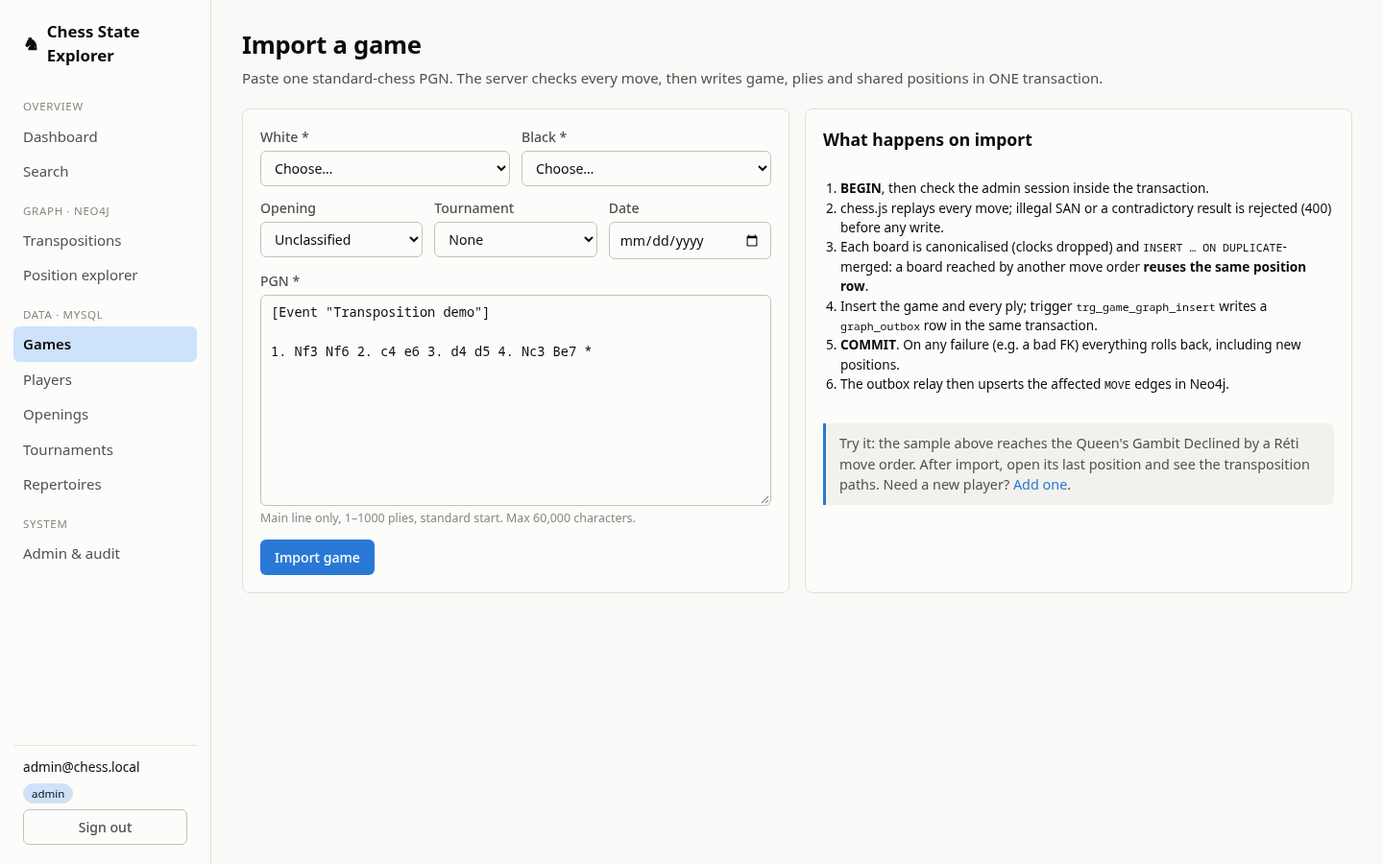
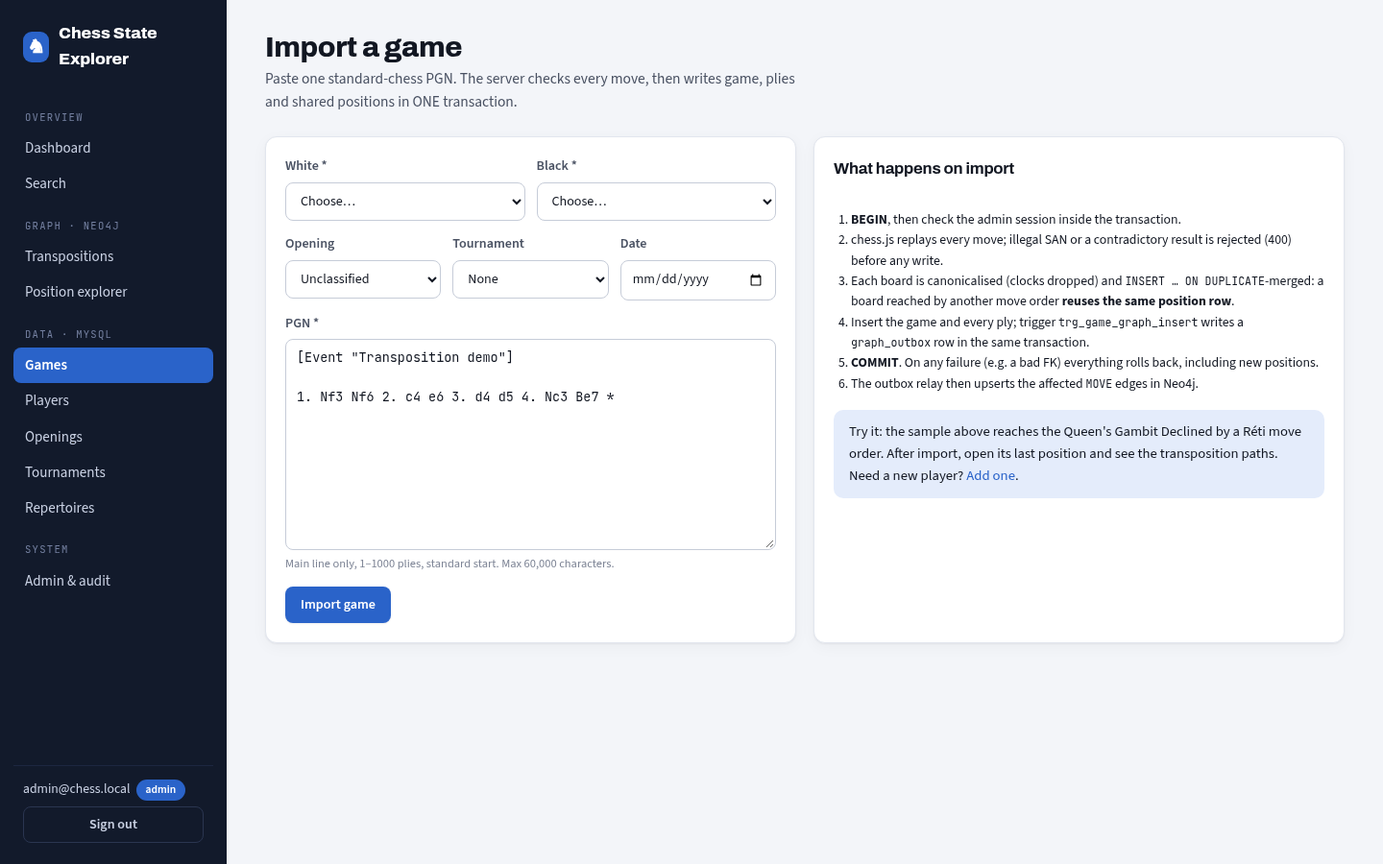
style(ui): redesign with dark sidebar, display fonts and database-coloured tags

diff --git a/src/app/globals.css b/src/app/globals.css
@@ -1,21 +1,32 @@
-/* Chess State Explorer — single stylesheet. Tokens first; dark mode is its own selected set. */
+/* Chess State Explorer — one stylesheet. Tokens first; dark mode is its own selected set.
+   Layout: dark navy sidebar rail, airy paper canvas, white layered cards. */
 :root {
   color-scheme: light;
-  --page: #f9f9f7;
-  --surface: #fcfcfb;
-  --surface-2: #f2f1ed;
-  --ink: #0b0b0b;
-  --ink-2: #52514e;
-  --muted: #898781;
-  --line: #e1e0d9;
-  --axis: #c3c2b7;
-  --ring: rgba(11, 11, 11, 0.10);
-  --accent: #2a78d6;
+  --page: #f3f5f9;
+  --surface: #ffffff;
+  --surface-2: #f1f3f7;
+  --ink: #121722;
+  --ink-2: #4a5263;
+  --muted: #7d8495;
+  --line: #e2e6ee;
+  --axis: #c6ccd8;
+  --ring: rgba(18, 23, 34, 0.08);
+  --shadow: 0 1px 2px rgba(18, 23, 34, 0.05), 0 4px 16px rgba(18, 23, 34, 0.04);
+  --rail: #121a2b;
+  --rail-ink: #c9d1e3;
+  --rail-muted: #7480a0;
+  --rail-hover: #1d2740;
+  --accent: #2a63c9;
   --accent-ink: #ffffff;
-  --accent-soft: #cde2fb;
-  --ok: #006300;
+  --accent-soft: #e4ecfb;
+  --sql: #b5560f;
+  --sql-soft: #fcebdd;
+  --graph: #137a54;
+  --graph-soft: #ddf3e8;
+  --ok: #0b6b2c;
   --critical: #d03b3b;
   --warning: #fab219;
+  --warning-soft: #fff3d6;
   /* categorical slots 1–3 (validated): white wins / draws / black wins */
   --s1: #2a78d6;
   --s2: #eb6834;
@@ -23,143 +34,168 @@
   /* diverging pair for evaluation polarity */
   --div-white: rgba(42, 120, 214, 0.22);
   --div-black: rgba(227, 73, 72, 0.20);
-  --board-light: #ebe6d8;
-  --board-dark: #8aa0b4;
-  --board-highlight: rgba(250, 178, 25, 0.45);
-  --radius: 8px;
-  font-family: system-ui, -apple-system, "Segoe UI", sans-serif;
+  --board-light: #e9e5d9;
+  --board-dark: #8ea2b6;
+  --board-highlight: rgba(250, 178, 25, 0.5);
+  --radius: 12px;
+  --f-display: var(--font-display), "Archivo", "Helvetica Neue", Arial, sans-serif;
+  --f-body: var(--font-body), "Source Sans 3", "Segoe UI", system-ui, sans-serif;
+  --f-mono: var(--font-mono), "JetBrains Mono", ui-monospace, Menlo, monospace;
 }
 @media (prefers-color-scheme: dark) {
   :root:where(:not([data-theme="light"])) {
     color-scheme: dark;
-    --page: #0d0d0d; --surface: #1a1a19; --surface-2: #232321; --ink: #f0efec; --ink-2: #c3c2b7;
-    --muted: #898781; --line: #2c2c2a; --axis: #383835; --ring: rgba(255, 255, 255, 0.10);
-    --accent: #3987e5; --accent-soft: #184f95; --ok: #0ca30c;
+    --page: #0d1016; --surface: #161a22; --surface-2: #1d222c; --ink: #e9ecf2; --ink-2: #b7becb; --muted: #8790a1;
+    --line: #272d39; --axis: #39404d; --ring: rgba(0, 0, 0, 0.4); --shadow: 0 1px 2px rgba(0, 0, 0, 0.4);
+    --rail: #0a0d13; --rail-hover: #171c27;
+    --accent: #5f93ec; --accent-soft: #1b2944; --sql: #f0a060; --sql-soft: #3a2616; --graph: #4cc996; --graph-soft: #12322a;
+    --ok: #3fcf6a; --warning-soft: #3a2e12;
     --s1: #3987e5; --s2: #d95926; --s3: #199e70;
     --div-white: rgba(57, 135, 229, 0.28); --div-black: rgba(230, 103, 103, 0.26);
-    --board-light: #b9b3a2; --board-dark: #5d7385;
+    --board-light: #b9b5a8; --board-dark: #5d7083;
   }
 }
 :root[data-theme="dark"] {
   color-scheme: dark;
-  --page: #0d0d0d; --surface: #1a1a19; --surface-2: #232321; --ink: #f0efec; --ink-2: #c3c2b7;
-  --muted: #898781; --line: #2c2c2a; --axis: #383835; --ring: rgba(255, 255, 255, 0.10);
-  --accent: #3987e5; --accent-soft: #184f95; --ok: #0ca30c;
+  --page: #0d1016; --surface: #161a22; --surface-2: #1d222c; --ink: #e9ecf2; --ink-2: #b7becb; --muted: #8790a1;
+  --line: #272d39; --axis: #39404d; --ring: rgba(0, 0, 0, 0.4); --shadow: 0 1px 2px rgba(0, 0, 0, 0.4);
+  --rail: #0a0d13; --rail-hover: #171c27;
+  --accent: #5f93ec; --accent-soft: #1b2944; --sql: #f0a060; --sql-soft: #3a2616; --graph: #4cc996; --graph-soft: #12322a;
+  --ok: #3fcf6a; --warning-soft: #3a2e12;
   --s1: #3987e5; --s2: #d95926; --s3: #199e70;
   --div-white: rgba(57, 135, 229, 0.28); --div-black: rgba(230, 103, 103, 0.26);
-  --board-light: #b9b3a2; --board-dark: #5d7385;
+  --board-light: #b9b5a8; --board-dark: #5d7083;
 }
 
 * { box-sizing: border-box; }
 html, body { margin: 0; }
-body { background: var(--page); color: var(--ink); font-size: 15px; line-height: 1.5; }
+body { background: var(--page); color: var(--ink); font-family: var(--f-body); font-size: 15.5px; line-height: 1.55; -webkit-font-smoothing: antialiased; }
 a { color: var(--accent); text-decoration: none; }
-a:hover { text-decoration: underline; }
-h1 { font-size: 1.6rem; margin: 0 0 4px; letter-spacing: -0.01em; }
-h2 { font-size: 1.1rem; margin: 0 0 12px; }
+a:hover { text-decoration: underline; text-underline-offset: 2px; }
+h1, h2, h3 { font-family: var(--f-display); letter-spacing: -0.015em; text-wrap: balance; }
+h1 { font-size: 1.85rem; font-weight: 800; margin: 0 0 4px; line-height: 1.15; }
+h2 { font-size: 1.05rem; font-weight: 700; margin: 0 0 14px; display: flex; align-items: center; gap: 6px; }
 h3 { font-size: 0.95rem; margin: 0 0 8px; }
-code, .mono { font-family: ui-monospace, "SF Mono", Menlo, monospace; font-size: 0.85em; }
+code, .mono { font-family: var(--f-mono); font-size: 0.84em; }
 .muted { color: var(--muted); }
-.small { font-size: 0.85rem; }
+.small { font-size: 0.86rem; }
 .num { font-variant-numeric: tabular-nums; text-align: right; }
 
 /* ---------- shell ---------- */
-.shell { display: grid; grid-template-columns: 220px 1fr; min-height: 100vh; background: linear-gradient(to right, var(--surface) 219px, var(--line) 219px 220px, var(--page) 220px); }
-.sidebar { background: var(--surface); border-right: 1px solid var(--line); align-self: start; padding: 20px 14px; display: flex; flex-direction: column; gap: 4px; position: sticky; top: 0; height: 100vh; }
-.brand { font-weight: 700; font-size: 1.05rem; padding: 0 10px 14px; display: flex; gap: 8px; align-items: center; color: var(--ink); }
+.shell { display: grid; grid-template-columns: 236px 1fr; min-height: 100vh; background: linear-gradient(to right, var(--rail) 236px, var(--page) 236px); }
+.sidebar { background: var(--rail); color: var(--rail-ink); padding: 22px 14px; display: flex; flex-direction: column; gap: 4px; position: sticky; top: 0; height: 100vh; overflow-y: auto; align-self: start; }
+.brand { font-family: var(--f-display); font-weight: 800; font-size: 1.08rem; padding: 0 10px 18px; display: flex; gap: 10px; align-items: center; color: #fff; letter-spacing: -0.01em; }
+.brand > span:first-child { display: grid; place-items: center; width: 32px; height: 32px; border-radius: 9px; background: var(--accent); color: #fff; font-size: 1.15rem; }
 .brand:hover { text-decoration: none; }
-.nav a { display: block; padding: 7px 10px; border-radius: 6px; color: var(--ink-2); }
-.nav a:hover { background: var(--surface-2); text-decoration: none; color: var(--ink); }
-.nav a[aria-current="page"] { background: var(--accent-soft); color: var(--ink); font-weight: 600; }
-.nav-group { font-size: 0.72rem; text-transform: uppercase; letter-spacing: 0.06em; color: var(--muted); padding: 14px 10px 4px; }
-.sidebar-foot { margin-top: auto; padding: 12px 10px 0; border-top: 1px solid var(--line); font-size: 0.85rem; }
-.main { padding: 28px 32px 60px; max-width: 1240px; width: 100%; }
-.page-head { display: flex; justify-content: space-between; align-items: flex-end; gap: 16px; margin-bottom: 20px; flex-wrap: wrap; }
-.page-head p { margin: 0; color: var(--ink-2); }
-.searchbar { display: flex; gap: 8px; }
+.nav a { display: block; padding: 7px 12px; border-radius: 8px; color: var(--rail-ink); font-size: 0.94rem; }
+.nav a:hover { background: var(--rail-hover); text-decoration: none; color: #fff; }
+.nav a[aria-current="page"] { background: var(--accent); color: #fff; font-weight: 600; }
+.nav-group { font-family: var(--f-mono); font-size: 0.66rem; text-transform: uppercase; letter-spacing: 0.12em; color: var(--rail-muted); padding: 16px 12px 6px; }
+.sidebar-foot { margin-top: auto; padding: 14px 10px 0; border-top: 1px solid var(--rail-hover); font-size: 0.85rem; color: var(--rail-ink); }
+.sidebar-foot .btn-ghost { background: transparent; color: var(--rail-ink); border-color: #2a3550; justify-content: center; }
+.sidebar-foot .btn-ghost:hover { background: var(--rail-hover); color: #fff; }
+.sidebar-foot .badge { background: var(--rail-hover); color: var(--rail-ink); border-color: transparent; }
+.sidebar-foot .badge-admin { background: var(--accent); color: #fff; }
+.main { padding: 32px 40px 72px; max-width: 1280px; width: 100%; }
+.page-head { display: flex; justify-content: space-between; align-items: flex-end; gap: 16px; margin-bottom: 24px; flex-wrap: wrap; }
+.page-head p { margin: 0; color: var(--ink-2); max-width: 75ch; }
+.searchbar { display: flex; gap: 8px; align-items: center; }
 
 /* ---------- surfaces ---------- */
-.card { background: var(--surface); border: 1px solid var(--line); border-radius: var(--radius); padding: 18px; }
-.grid { display: grid; gap: 16px; }
+.card { background: var(--surface); border: 1px solid var(--line); border-radius: var(--radius); padding: 20px; box-shadow: var(--shadow); min-width: 0; }
+.grid { display: grid; gap: 18px; }
 .grid-2 { grid-template-columns: repeat(2, minmax(0, 1fr)); }
 .grid-3 { grid-template-columns: repeat(3, minmax(0, 1fr)); }
 .stack { display: flex; flex-direction: column; gap: 16px; }
 .row { display: flex; gap: 10px; align-items: center; flex-wrap: wrap; }
-.stats { display: grid; grid-template-columns: repeat(auto-fit, minmax(150px, 1fr)); gap: 12px; margin-bottom: 16px; }
-.stat { background: var(--surface); border: 1px solid var(--line); border-radius: var(--radius); padding: 14px 16px; }
-.stat-label { color: var(--ink-2); font-size: 0.82rem; }
-.stat-value { font-size: 1.7rem; font-weight: 650; line-height: 1.2; }
-.stat-note { color: var(--muted); font-size: 0.78rem; }
-.badge { display: inline-block; font-size: 0.72rem; padding: 1px 8px; border-radius: 999px; background: var(--surface-2); color: var(--ink-2); border: 1px solid var(--line); }
-.badge-admin { background: var(--accent-soft); color: var(--ink); }
-.db-tag { font-size: 0.68rem; font-weight: 600; padding: 1px 6px; border-radius: 4px; border: 1px solid var(--line); color: var(--ink-2); margin-left: 6px; vertical-align: middle; }
-.callout { border-left: 3px solid var(--accent); background: var(--surface-2); padding: 10px 14px; border-radius: 0 6px 6px 0; color: var(--ink-2); font-size: 0.9rem; }
-.callout-warn { border-left-color: var(--warning); }
+.stats { display: grid; grid-template-columns: repeat(auto-fit, minmax(170px, 1fr)); gap: 14px; margin-bottom: 18px; }
+.stat { background: var(--surface); border: 1px solid var(--line); border-radius: var(--radius); padding: 16px 18px; box-shadow: var(--shadow); display: flex; flex-direction: column; gap: 2px; }
+.stat-label { min-height: 2.3em; color: var(--muted); font-family: var(--f-mono); font-size: 0.68rem; text-transform: uppercase; letter-spacing: 0.1em; }
+.stat-value { font-family: var(--f-display); font-size: 2rem; font-weight: 800; line-height: 1.15; letter-spacing: -0.02em; font-variant-numeric: tabular-nums; }
+.stat-note { color: var(--ink-2); font-size: 0.8rem; }
+.badge { display: inline-block; font-size: 0.72rem; font-weight: 600; padding: 1px 9px; border-radius: 999px; background: var(--surface-2); color: var(--ink-2); border: 1px solid var(--line); }
+.badge-admin { background: var(--accent-soft); color: var(--accent); border-color: transparent; }
+.db-tag { font-family: var(--f-mono); font-size: 0.64rem; font-weight: 600; padding: 2px 7px; border-radius: 5px; letter-spacing: 0.03em; background: var(--surface-2); color: var(--ink-2); }
+.db-mysql { background: var(--sql-soft); color: var(--sql); }
+.db-neo4j { background: var(--graph-soft); color: var(--graph); }
+.callout { background: var(--accent-soft); padding: 12px 16px; border-radius: 10px; color: var(--ink); font-size: 0.92rem; margin: 0 0 16px; }
+.callout-warn { background: var(--warning-soft); }
 
 /* ---------- tables ---------- */
-.table-wrap { overflow-x: auto; }
-table.data { width: 100%; border-collapse: collapse; font-size: 0.9rem; }
-table.data th { text-align: left; font-weight: 600; color: var(--ink-2); font-size: 0.78rem; text-transform: uppercase; letter-spacing: 0.04em; padding: 8px 10px; border-bottom: 1px solid var(--axis); white-space: nowrap; }
-table.data td { padding: 8px 10px; border-bottom: 1px solid var(--line); vertical-align: top; }
-table.data tr:hover td { background: var(--surface-2); }
-.empty { color: var(--muted); padding: 24px; text-align: center; }
-.pager { display: flex; gap: 8px; align-items: center; justify-content: flex-end; margin-top: 12px; }
+.table-wrap { overflow-x: auto; margin: 0 -4px; }
+table.data { width: 100%; border-collapse: collapse; font-size: 0.92rem; }
+table.data th { text-align: left; font-family: var(--f-mono); font-weight: 600; color: var(--muted); font-size: 0.66rem; text-transform: uppercase; letter-spacing: 0.1em; padding: 8px 10px; border-bottom: 1px solid var(--line); white-space: nowrap; }
+table.data td { padding: 9px 10px; border-bottom: 1px solid var(--line); vertical-align: middle; }
+table.data tr:last-child td { border-bottom: 0; }
+table.data tbody tr:hover td { background: var(--surface-2); }
+.empty { color: var(--muted); padding: 28px; text-align: center; border: 1px dashed var(--line); border-radius: 10px; }
+.pager { display: flex; gap: 8px; align-items: center; justify-content: flex-end; margin-top: 14px; }
 
 /* ---------- forms ---------- */
-.form { display: flex; flex-direction: column; gap: 12px; }
+.form { display: flex; flex-direction: column; gap: 14px; }
 .form-inline { display: inline-flex; gap: 8px; align-items: center; }
-.form-row { display: grid; grid-template-columns: repeat(auto-fit, minmax(140px, 1fr)); gap: 12px; }
-.field { display: flex; flex-direction: column; gap: 4px; font-size: 0.88rem; }
-.field-label { color: var(--ink-2); font-weight: 500; }
+.form-row { display: grid; grid-template-columns: repeat(auto-fit, minmax(150px, 1fr)); gap: 12px; }
+.field { display: flex; flex-direction: column; gap: 5px; font-size: 0.88rem; }
+.field-label { color: var(--ink-2); font-weight: 600; }
 .field-hint { color: var(--muted); font-size: 0.78rem; }
-input, select, textarea { font: inherit; color: var(--ink); background: var(--surface); border: 1px solid var(--axis); border-radius: 6px; padding: 7px 10px; min-width: 0; }
-textarea { font-family: ui-monospace, Menlo, monospace; font-size: 0.85rem; }
-input:focus, select:focus, textarea:focus, button:focus-visible { outline: 2px solid var(--accent); outline-offset: 1px; }
+input, select, textarea { font: inherit; color: var(--ink); background: var(--surface); border: 1px solid var(--axis); border-radius: 8px; padding: 8px 11px; min-width: 0; transition: border-color .15s, box-shadow .15s; }
+input:hover, select:hover, textarea:hover { border-color: var(--muted); }
+input:focus, select:focus, textarea:focus { outline: none; border-color: var(--accent); box-shadow: 0 0 0 3px var(--accent-soft); }
+textarea { font-family: var(--f-mono); font-size: 0.84rem; line-height: 1.5; }
+button:focus-visible, a:focus-visible { outline: 2px solid var(--accent); outline-offset: 2px; }
 .form-actions { display: flex; gap: 12px; align-items: center; flex-wrap: wrap; }
-.btn { font: inherit; font-size: 0.88rem; font-weight: 550; border-radius: 6px; padding: 7px 14px; cursor: pointer; border: 1px solid transparent; }
+.btn { font: 600 0.88rem var(--f-body); border-radius: 8px; padding: 8px 15px; cursor: pointer; border: 1px solid transparent; display: inline-flex; align-items: center; gap: 6px; transition: background .15s, transform .05s; }
+.btn:hover { text-decoration: none; }
+.btn:active { transform: translateY(1px); }
 .btn:disabled { opacity: 0.6; cursor: progress; }
-.btn-primary { background: var(--accent); color: var(--accent-ink); }
+.btn-primary { background: var(--accent); color: var(--accent-ink); box-shadow: 0 1px 2px var(--ring); }
+.btn-primary:hover { filter: brightness(1.08); }
 .btn-danger { background: transparent; color: var(--critical); border-color: var(--critical); }
-.btn-ghost { background: transparent; color: var(--ink-2); border-color: var(--axis); }
-.btn-ghost:hover { background: var(--surface-2); }
-.msg { font-size: 0.85rem; }
+.btn-danger:hover { background: var(--critical); color: #fff; }
+.btn-ghost { background: var(--surface); color: var(--ink-2); border-color: var(--line); }
+.btn-ghost:hover { background: var(--surface-2); color: var(--ink); }
+.msg { font-size: 0.86rem; font-weight: 600; }
 .msg-ok { color: var(--ok); }
 .msg-error { color: var(--critical); }
-details.admin { margin-top: 4px; }
-details.admin > summary { cursor: pointer; color: var(--accent); font-weight: 550; font-size: 0.9rem; padding: 4px 0; }
-details.admin[open] > summary { margin-bottom: 10px; }
+details.admin > summary { cursor: pointer; color: var(--accent); font-weight: 600; font-size: 0.92rem; list-style: none; }
+details.admin > summary::before { content: "＋ "; }
+details.admin[open] > summary { margin-bottom: 14px; }
+details.admin[open] > summary::before { content: "－ "; }
 
 /* ---------- chess ---------- */
-.board { width: 100%; max-width: 460px; aspect-ratio: 1; }
-.board-sm { max-width: 240px; }
-.viewer { display: grid; grid-template-columns: minmax(280px, 460px) minmax(220px, 1fr); gap: 20px; }
-.viewer-board { display: flex; flex-direction: column; gap: 10px; }
-.viewer-controls { display: flex; gap: 6px; align-items: center; justify-content: center; }
-.viewer-controls .muted { min-width: 90px; text-align: center; font-variant-numeric: tabular-nums; }
+.board { width: 100%; max-width: 460px; aspect-ratio: 1; border-radius: 10px; box-shadow: 0 6px 24px var(--ring), 0 0 0 1px var(--line); }
+.viewer { display: grid; grid-template-columns: minmax(280px, 460px) minmax(240px, 1fr); gap: 22px; }
+.viewer-board { display: flex; flex-direction: column; gap: 12px; }
+.viewer-controls { display: flex; gap: 6px; align-items: center; justify-content: center; background: var(--surface); border: 1px solid var(--line); border-radius: 10px; padding: 6px; }
+.viewer-controls .btn-ghost { border-color: transparent; padding: 6px 12px; }
+.viewer-controls .muted { min-width: 110px; text-align: center; font-family: var(--f-mono); font-size: 0.85rem; color: var(--ink); }
 .viewer-meta { margin: 0; text-align: center; font-size: 0.9rem; }
-.viewer-moves { max-height: 520px; overflow-y: auto; background: var(--surface); border: 1px solid var(--line); border-radius: var(--radius); }
+.viewer-moves { max-height: 540px; overflow-y: auto; background: var(--surface); border: 1px solid var(--line); border-radius: var(--radius); box-shadow: var(--shadow); }
 .viewer-chart { grid-column: 1 / -1; }
-table.moves { width: 100%; border-collapse: collapse; font-size: 0.9rem; }
-table.moves th { position: sticky; top: 0; background: var(--surface); text-align: left; padding: 6px 10px; color: var(--muted); font-weight: 500; border-bottom: 1px solid var(--line); }
-table.moves td { padding: 1px 6px; }
-.move { font: inherit; background: none; border: 0; padding: 3px 6px; border-radius: 4px; cursor: pointer; color: var(--ink); display: inline-flex; gap: 4px; align-items: center; }
-.move:hover { background: var(--surface-2); }
-.move-current { background: var(--accent-soft); font-weight: 600; }
-.tag { font-size: 0.68rem; font-weight: 700; padding: 0 5px; border-radius: 4px; line-height: 1.5; }
+table.moves { width: 100%; border-collapse: collapse; font-family: var(--f-mono); font-size: 0.86rem; }
+table.moves th { position: sticky; top: 0; background: var(--surface); text-align: left; padding: 9px 12px; color: var(--muted); font-weight: 600; font-size: 0.66rem; text-transform: uppercase; letter-spacing: 0.1em; border-bottom: 1px solid var(--line); }
+table.moves tbody tr:nth-child(even) td { background: var(--surface-2); }
+table.moves td { padding: 1px 8px; }
+.move { font: inherit; background: none; border: 0; padding: 4px 8px; border-radius: 6px; cursor: pointer; color: var(--ink); display: inline-flex; gap: 5px; align-items: center; }
+.move:hover { background: var(--accent-soft); }
+.move-current { background: var(--accent); color: #fff; font-weight: 600; }
+.move-current:hover { background: var(--accent); }
+.tag { font-family: var(--f-body); font-size: 0.66rem; font-weight: 700; padding: 0 5px; border-radius: 4px; line-height: 1.55; }
 .tag-critical { background: var(--critical); color: #fff; }
-.tag-novelty { background: var(--s1); color: #fff; }
+.tag-novelty { background: var(--graph); color: #fff; }
 .san-list { display: flex; flex-wrap: wrap; gap: 4px; }
-.san { font-family: ui-monospace, Menlo, monospace; font-size: 0.82rem; background: var(--surface-2); border: 1px solid var(--line); padding: 1px 6px; border-radius: 4px; }
-.san-num { color: var(--muted); font-size: 0.78rem; margin-left: 4px; }
+.san { font-family: var(--f-mono); font-size: 0.8rem; background: var(--surface-2); border: 1px solid var(--line); padding: 2px 7px; border-radius: 6px; color: var(--ink); }
+a.san:hover { border-color: var(--accent); text-decoration: none; }
+.san-num { color: var(--muted); font-size: 0.76rem; margin-left: 4px; }
 
 /* ---------- charts ---------- */
-.eval-chart { margin: 0; background: var(--surface); border: 1px solid var(--line); border-radius: var(--radius); padding: 14px 16px; }
-.chart-title { font-weight: 600; font-size: 0.92rem; margin-bottom: 6px; }
+.eval-chart { margin: 0; background: var(--surface); border: 1px solid var(--line); border-radius: var(--radius); padding: 16px 18px; box-shadow: var(--shadow); }
+.chart-title { font-family: var(--f-display); font-weight: 700; font-size: 0.98rem; margin-bottom: 8px; }
 .chart-wrap { position: relative; }
 .chart-wrap svg { width: 100%; height: auto; display: block; cursor: crosshair; }
 svg .gridline { stroke: var(--line); stroke-width: 1; }
 svg .axis { stroke: var(--axis); stroke-width: 1; }
-svg .tick { fill: var(--muted); font-size: 10px; font-variant-numeric: tabular-nums; }
+svg .tick { fill: var(--muted); font-size: 10px; font-family: var(--f-mono); font-variant-numeric: tabular-nums; }
 svg .area-white { fill: var(--div-white); }
 svg .area-black { fill: var(--div-black); }
 svg .eval-line { fill: none; stroke: var(--ink-2); stroke-width: 2; stroke-linejoin: round; }
@@ -167,36 +203,40 @@ svg .cursor { stroke: var(--accent); stroke-width: 2; opacity: 0.7; }
 svg .crosshair { stroke: var(--muted); stroke-width: 1; stroke-dasharray: 3 3; }
 svg .hover-dot { fill: var(--ink); stroke: var(--surface); stroke-width: 2; }
 svg .blunder-dot { fill: var(--critical); stroke: var(--surface); stroke-width: 2; }
-.tooltip { position: absolute; top: 0; transform: translateX(-50%); background: var(--surface); border: 1px solid var(--line); box-shadow: 0 2px 8px var(--ring); border-radius: 6px; padding: 6px 10px; font-size: 0.8rem; display: flex; flex-direction: column; pointer-events: none; white-space: nowrap; }
-.legend { display: flex; gap: 16px; flex-wrap: wrap; font-size: 0.8rem; color: var(--ink-2); margin-top: 6px; }
+.tooltip { position: absolute; top: 0; transform: translateX(-50%); background: var(--surface); border: 1px solid var(--line); box-shadow: 0 4px 14px var(--ring); border-radius: 8px; padding: 6px 10px; font-size: 0.8rem; display: flex; flex-direction: column; pointer-events: none; white-space: nowrap; }
+.legend { display: flex; gap: 16px; flex-wrap: wrap; font-size: 0.8rem; color: var(--ink-2); margin-top: 8px; }
 .legend span { display: inline-flex; gap: 6px; align-items: center; }
 .swatch { width: 10px; height: 10px; border-radius: 2px; display: inline-block; }
 .swatch-white { background: var(--div-white); border: 1px solid var(--s1); }
 .swatch-black { background: var(--div-black); border: 1px solid var(--critical); }
 .swatch-blunder { background: var(--critical); border-radius: 50%; }
 .swatch-s1 { background: var(--s1); } .swatch-s2 { background: var(--s2); } .swatch-s3 { background: var(--s3); }
-.resultbar { display: flex; gap: 2px; height: 12px; min-width: 120px; border-radius: 4px; overflow: hidden; background: var(--surface-2); }
+.resultbar { display: flex; gap: 2px; height: 10px; min-width: 120px; border-radius: 5px; overflow: hidden; background: var(--surface-2); }
 .resultbar > i { display: block; height: 100%; }
 .resultbar .r-w { background: var(--s1); } .resultbar .r-d { background: var(--s2); } .resultbar .r-b { background: var(--s3); }
 .meter { height: 6px; background: var(--surface-2); border-radius: 3px; overflow: hidden; min-width: 60px; }
-.meter > i { display: block; height: 100%; background: var(--s1); border-radius: 3px; }
+.meter > i { display: block; height: 100%; background: var(--accent); border-radius: 3px; }
 
 /* ---------- tree ---------- */
-.tree ul { list-style: none; margin: 0; padding-left: 18px; border-left: 1px dashed var(--line); }
-.tree > ul { padding-left: 0; border-left: 0; }
-.tree li { margin: 3px 0; }
-.tree-node { display: inline-flex; gap: 8px; align-items: center; }
+.tree ul { list-style: none; margin: 0; padding-left: 22px; border-left: 2px solid var(--line); margin-left: 8px; }
+.tree > ul { padding-left: 0; border-left: 0; margin-left: 0; }
+.tree li { margin: 5px 0; }
+.tree-node { display: inline-flex; gap: 10px; align-items: center; }
 
 /* ---------- login ---------- */
-.login { min-height: 100vh; display: grid; place-items: center; padding: 16px; }
-.login .card { width: 100%; max-width: 380px; }
+.login { min-height: 100vh; display: grid; place-items: center; padding: 16px;
+  background-color: var(--rail);
+  background-image: conic-gradient(rgba(255,255,255,0.035) 25%, transparent 0 50%, rgba(255,255,255,0.035) 0 75%, transparent 0);
+  background-size: 96px 96px; }
+.login .card { width: 100%; max-width: 400px; padding: 28px; box-shadow: 0 20px 60px rgba(0,0,0,0.35); }
+.login h1 { display: flex; gap: 10px; align-items: center; }
 
 @media (max-width: 900px) {
   .shell { grid-template-columns: 1fr; background: var(--page); }
-  .sidebar { position: static; height: auto; flex-direction: row; flex-wrap: wrap; align-items: center; padding: 10px 16px; }
+  .sidebar { position: static; height: auto; flex-direction: row; flex-wrap: wrap; align-items: center; padding: 12px 16px; }
   .nav { display: flex; flex-wrap: wrap; gap: 2px; }
   .nav-group { display: none; }
   .sidebar-foot { margin: 0 0 0 auto; border: 0; padding: 0; }
-  .main { padding: 20px 16px 40px; }
+  .main { padding: 22px 16px 48px; }
   .grid-2, .grid-3, .viewer { grid-template-columns: 1fr; }
 }

diff --git a/src/app/layout.tsx b/src/app/layout.tsx
@@ -1,5 +1,10 @@
 import type { ReactNode } from "react";
+import { Archivo, JetBrains_Mono, Source_Sans_3 } from "next/font/google";
 import "./globals.css";
+
+const display = Archivo({ subsets: ["latin"], weight: ["600", "700", "800"], variable: "--font-display" });
+const body = Source_Sans_3({ subsets: ["latin"], weight: ["400", "600", "700"], variable: "--font-body" });
+const mono = JetBrains_Mono({ subsets: ["latin"], weight: ["400", "600"], variable: "--font-mono" });
 
 export const metadata = {
   title: "Chess State Explorer",
@@ -9,5 +14,9 @@ export const metadata = {
 export default function RootLayout({ children }: { children: ReactNode }) {
   // Browser extensions (e.g. Video Speed Controller adds class="vsc-initialized") edit <body>
   // before React hydrates; ignore attribute-only differences on this one element.
-  return <html lang="en"><body suppressHydrationWarning>{children}</body></html>;
+  return (
+    <html lang="en" className={`${display.variable} ${body.variable} ${mono.variable}`}>
+      <body suppressHydrationWarning>{children}</body>
+    </html>
+  );
 }

diff --git a/src/components/ui.tsx b/src/components/ui.tsx
@@ -56,7 +56,7 @@ export function ResultLegend() {
 }
 
 export function Db({ kind }: { kind: "MySQL" | "Neo4j" }) {
-  return <span className="db-tag" title={`Served by ${kind}`}>{kind}</span>;
+  return <span className={`db-tag db-${kind.toLowerCase()}`} title={`Served by ${kind}`}>{kind}</span>;
 }
 
 export function Empty({ children }: { children: ReactNode }) {
